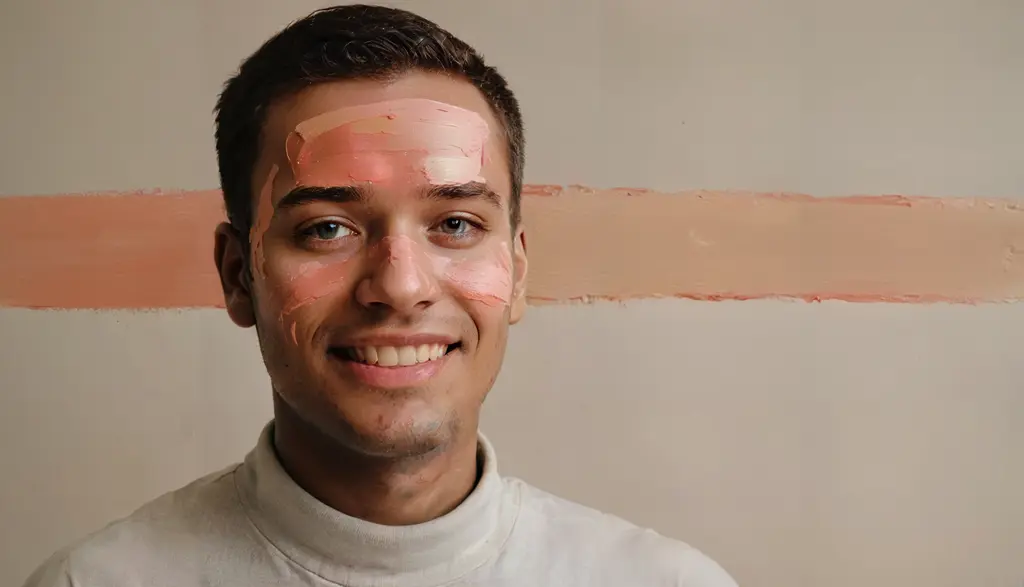
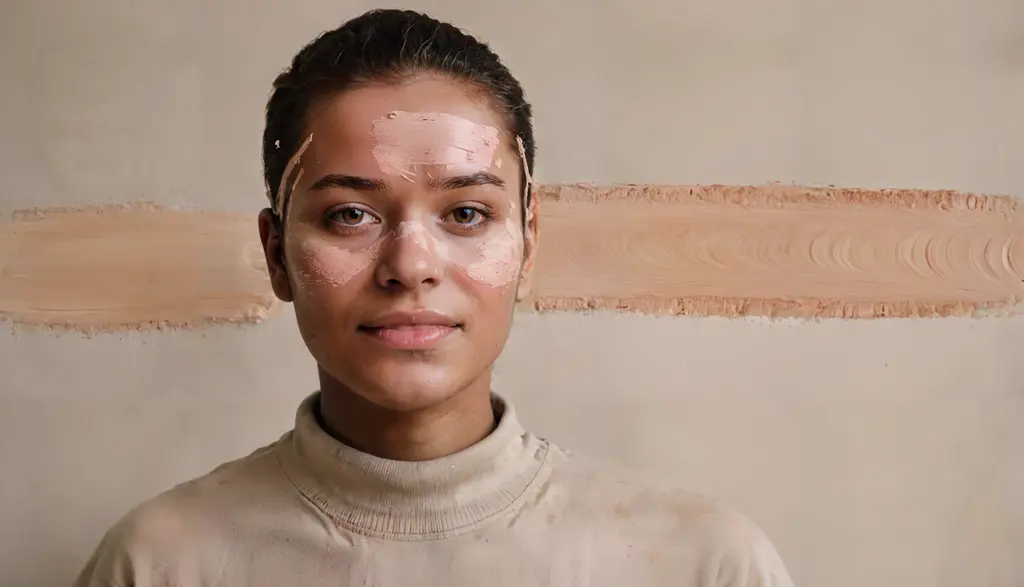
replaced image

diff --git a/src/data/articles.ts b/src/data/articles.ts
@@ -1529,7 +1529,7 @@ export const articlesData = [
         articleUrl: `20240720-microsoft-replaces-dei`,
         category: `tech`,
         img: `/images/20240720-microsoft-replaces-dei.webp`,
-        alt: `a black tech worker with beige paint covering his face`,
+        alt: `a smiling black tech worker with beige paint covering her face`,
         header: `Microsoft Replaces DEI Team with "Department of Exact Imitation"`,
         subhead: `New hires to undergo "personality flattening" before starting work`,
         tags: [`Microsoft`],
